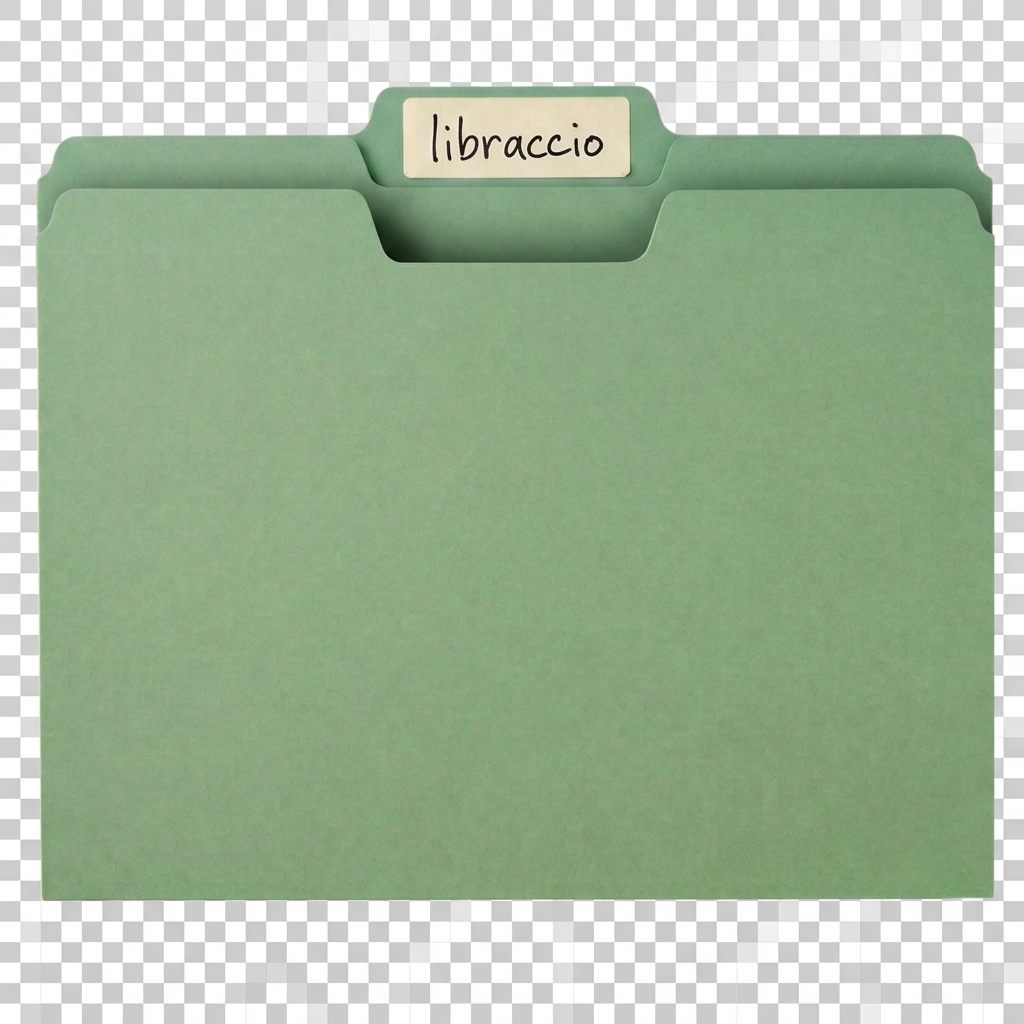
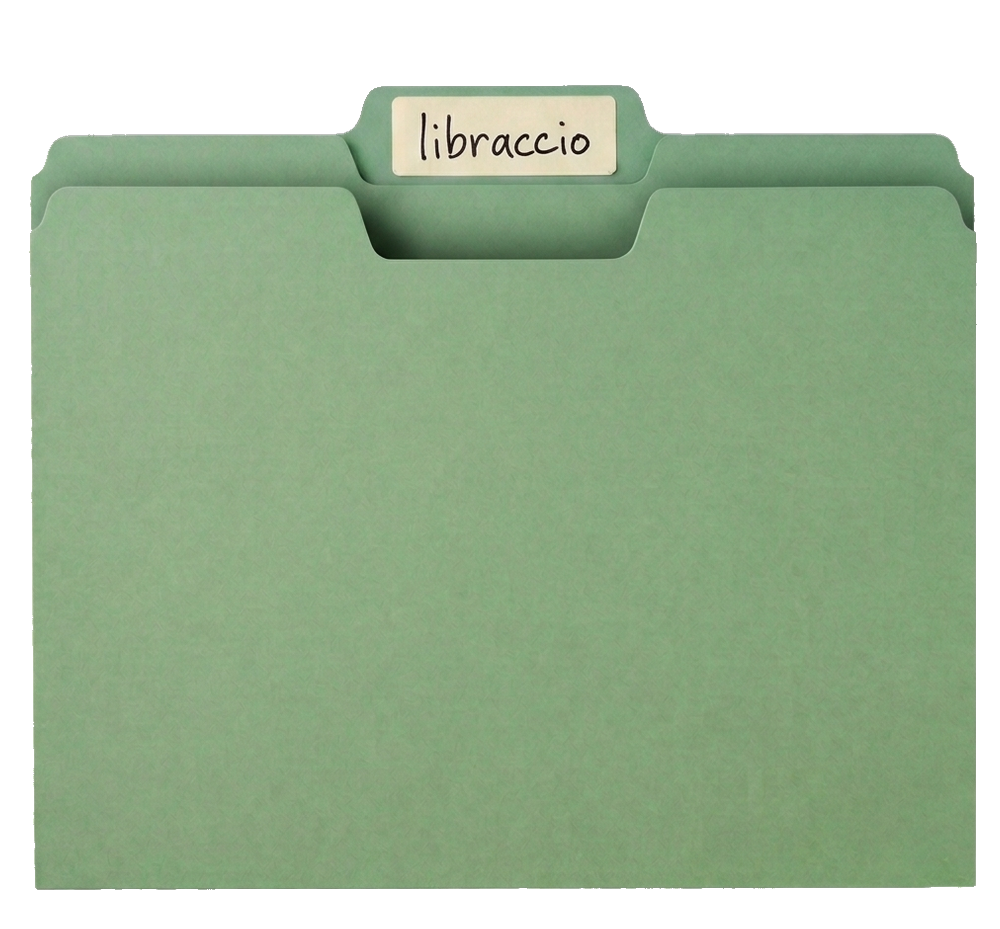
style: simplify sticker hover and align transparent open folder assets

Changed region(s): [[0.0, 0.0, 1.0, 1.0]]

diff --git a/src/components/Works.css b/src/components/Works.css
@@ -154,7 +154,6 @@
   position: absolute;
   pointer-events: none;
   z-index: 5;
-  perspective: 800px;
 }
 
 /* Sticker cliccabile — wrapper <a> */
@@ -163,7 +162,6 @@
   display: block;
   z-index: 5;
   cursor: pointer;
-  perspective: 800px;
 }
 
 .project-sticker-link:hover {
@@ -177,24 +175,24 @@
   height: auto;
   filter: drop-shadow(0.5px 1px 0.5px rgba(33, 37, 41, 0.18));
   transform-origin: center bottom;
-  transition: transform 0.45s cubic-bezier(0.34, 1.56, 0.64, 1), filter 0.45s ease;
+  transition: transform 0.35s cubic-bezier(0.25, 1, 0.5, 1), filter 0.35s ease;
   will-change: transform, filter;
 }
 
-/* Interactive sticker peels off when hovered directly */
+/* Interactive sticker lifts slightly and casts a shadow when hovered directly */
 .project-sticker-link:hover .project-sticker-img {
-  transform: translateY(-8px) rotateX(22deg) scale(1.08);
-  filter: drop-shadow(4px 12px 8px rgba(33, 37, 41, 0.28));
+  transform: translateY(-5px);
+  filter: drop-shadow(3px 8px 8px rgba(33, 37, 41, 0.24));
 }
 
 .project-sticker-link:active .project-sticker-img {
-  transform: translateY(-2px) rotateX(5deg) scale(0.98);
-  filter: drop-shadow(1px 2px 2px rgba(33, 37, 41, 0.2));
+  transform: translateY(-1px);
+  filter: drop-shadow(1px 2px 2px rgba(33, 37, 41, 0.18));
 }
 
 /* Static sticker lifts slightly when parent folder is hovered */
 .project-frame-container:hover .project-sticker-static .project-sticker-img {
-  transform: translateY(-2px) rotate(-1deg);
+  transform: translateY(-2px);
   filter: drop-shadow(1.5px 3px 3px rgba(33, 37, 41, 0.15));
 }
 

diff --git a/src/i18n/translations.js b/src/i18n/translations.js
@@ -12,7 +12,7 @@ export const t = {
     hero: {
       tagline:     'UX/UI Designer',
       location:    'Milano · Fortaleza',
-      description: "UX/UI designer guidata dall'empatia\ne dalla curiosità tecnologica. Disegno interfacce inclusive\nsperimentando con l'AI, senza mai smettere di imparare.",
+      description: "UX/UI designer guidata dall'empatia\ne dalla curiosità tecnologica. Disegno\ninterfacce inclusive\nsperimentando con l'AI, senza mai smettere di imparare.",
       scrollHint:  'ma dove corri?',
     },
     langNav:    'Seleziona lingua',